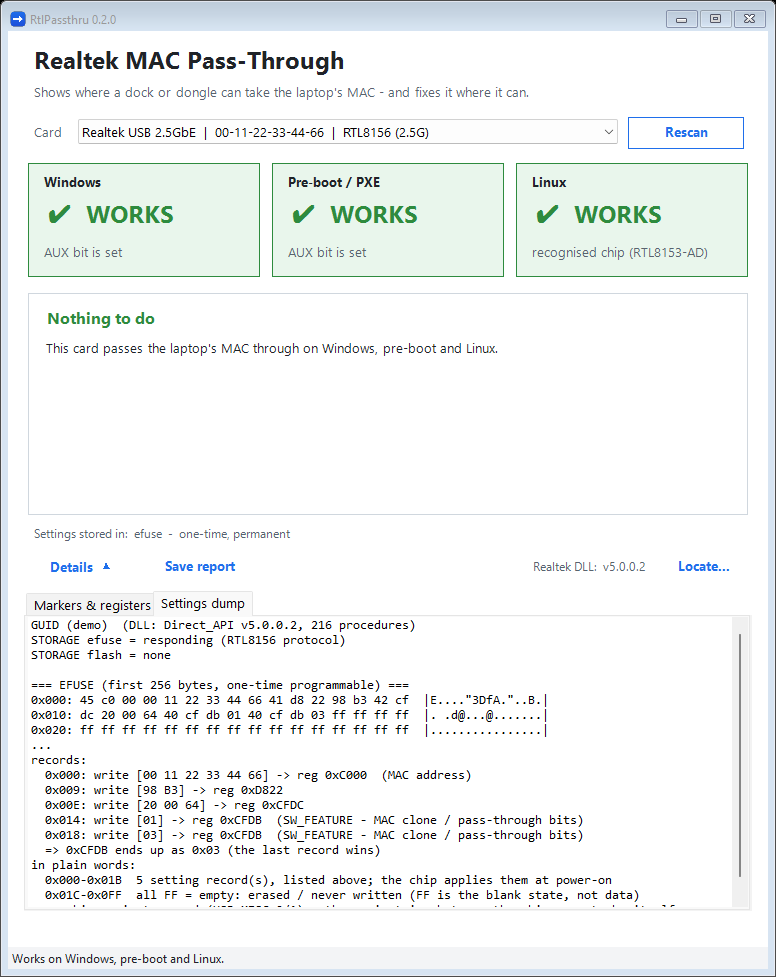
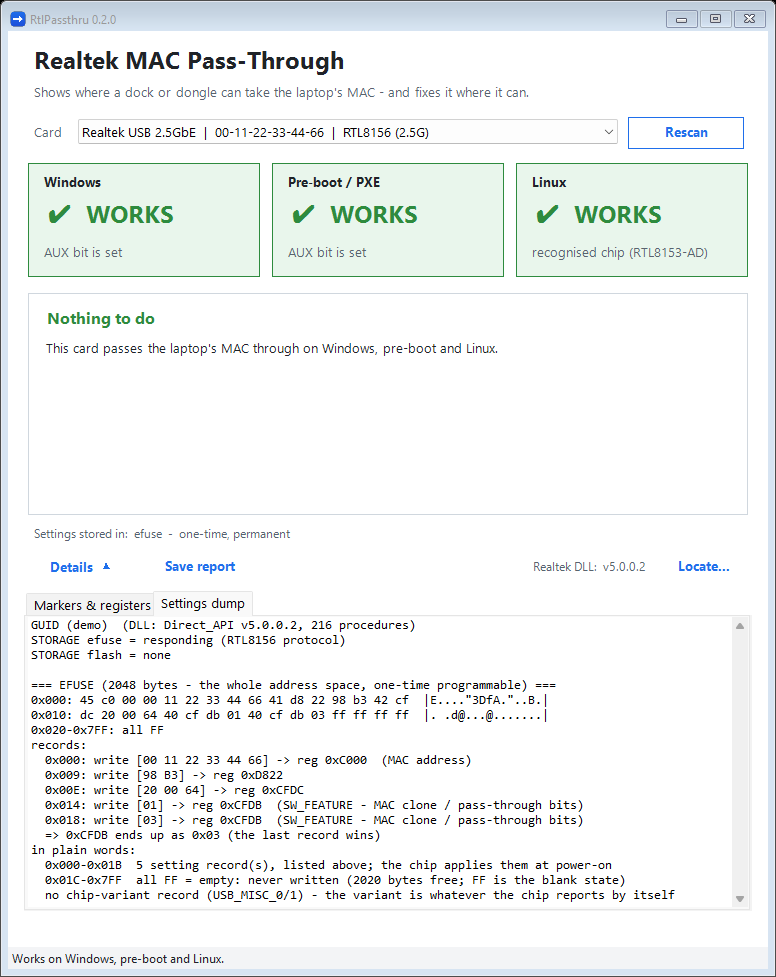
Settings dump shows the whole efuse (2048 B on RTL8156, 256 B on RTL8153), folding blank runs
The dump used to stop at 256 bytes, which made the efuse look small. Realtek's own tool on the same RTL8156BG showed ~1.1 KB free and more data further up. Now: whole address space, all-FF runs folded into one line, and the summary lists free space and every other non-empty area (not setting records, not decoded). efuse.py (the burn) is unchanged.

Changed region(s): [[0.0309, 0.7369, 0.866, 0.9212], [0.3093, 0.6755, 0.6804, 0.7062], [0.1237, 0.6755, 0.2784, 0.7062]]

diff --git a/tools/settings.py b/tools/settings.py
@@ -20,17 +20,41 @@ from storage import flash_name, has_flash
 
 NAMES = {0xC000: "MAC address", 0xCFDB: "SW_FEATURE - MAC clone / pass-through bits",
          0xD81A: "USB_MISC_0 - chip variant (AD marker)", 0xD81F: "USB_MISC_1 - chip variant (BD/BND)"}
-EFUSE_BYTES = 256   # the whole efuse: a burned record sits past 0x80 (e.g. 0x080 on a burned RTL8156)
-EFUSE8153_BYTES = 192   # the user efuse RTUNicPG reads on an RTL8153B
+EFUSE_BYTES = 2048      # the whole efuse address space of the dword protocol (9-bit dword address)
+EFUSE8153_BYTES = 256   # the whole address space of the older protocol (7-bit word address)
 FLASH_BYTES = 256       # only the start of the flash is shown (header of the driver install disk)
 
 
 def _hex(data: bytes, base: int = 0):
-    for i in range(0, len(data), 16):
+    """Hex dump; runs of all-FF lines are folded into one line so a 2 KB efuse stays readable."""
+    i, n = 0, len(data)
+    while i < n:
         chunk = data[i:i + 16]
+        if all(b == 0xFF for b in chunk):
+            j = i
+            while j + 16 <= n and all(b == 0xFF for b in data[j:j + 16]):
+                j += 16
+            if j - i > 16:
+                print(f"0x{base + i:03X}-0x{base + j - 1:03X}: all FF")
+                i = j
+                continue
         hexs = " ".join(f"{b:02x}" for b in chunk)
         text = "".join(chr(b) if 32 <= b < 127 else "." for b in chunk)
         print(f"0x{base + i:03X}: {hexs:<47}  |{text}|")
+        i += 16
+
+
+def _ranges(data: bytes, start: int):
+    """(first, last) offsets of the non-FF runs from `start` on; FF gaps shorter than 16 bytes are bridged."""
+    out = []
+    for i in range(start, len(data)):
+        if data[i] == 0xFF:
+            continue
+        if out and i - out[-1][1] <= 16:
+            out[-1][1] = i
+        else:
+            out.append([i, i])
+    return out
 
 
 def _records(recs):
@@ -60,8 +84,12 @@ def _summary(recs, data, start, store):
         print(f"  0x{start:03X}-0x{end - 1:03X}  {len(recs)} setting record(s), listed above; the chip applies them at power-on")
     else:
         print(f"  no setting records at all - the chip takes nothing from its {store} and runs on its factory defaults")
-    if end < len(data) and all(b == 0xFF for b in data[end:]):
-        print(f"  0x{end:03X}-0x{len(data) - 1:03X}  all FF = empty: erased / never written (FF is the blank state, not data)")
+    others = _ranges(data, end)
+    free_to = (others[0][0] if others else len(data)) - 1
+    if end <= free_to:
+        print(f"  0x{end:03X}-0x{free_to:03X}  all FF = empty: never written ({free_to - end + 1} bytes free; FF is the blank state)")
+    for a, b in others:
+        print(f"  0x{a:03X}-0x{b:03X}  other data - not setting records (the records end at the first FF), not decoded")
     regs = {r["reg"] for r in recs if r["kind"] == "reg"}
     if 0xCFDB not in regs:
         print("  no 0xCFDB record - the pass-through bits are the chip's own default")
@@ -104,7 +132,7 @@ def main(argv):
                                     if flash is not None else "none"))
 
         if efuse is not None:
-            print(f"\n=== EFUSE (first {len(efuse)} bytes, one-time programmable) ===")
+            print(f"\n=== EFUSE ({len(efuse)} bytes - the whole address space, one-time programmable) ===")
             _hex(efuse)
             print("records:")
             recs = parse_autoload_records(efuse)
